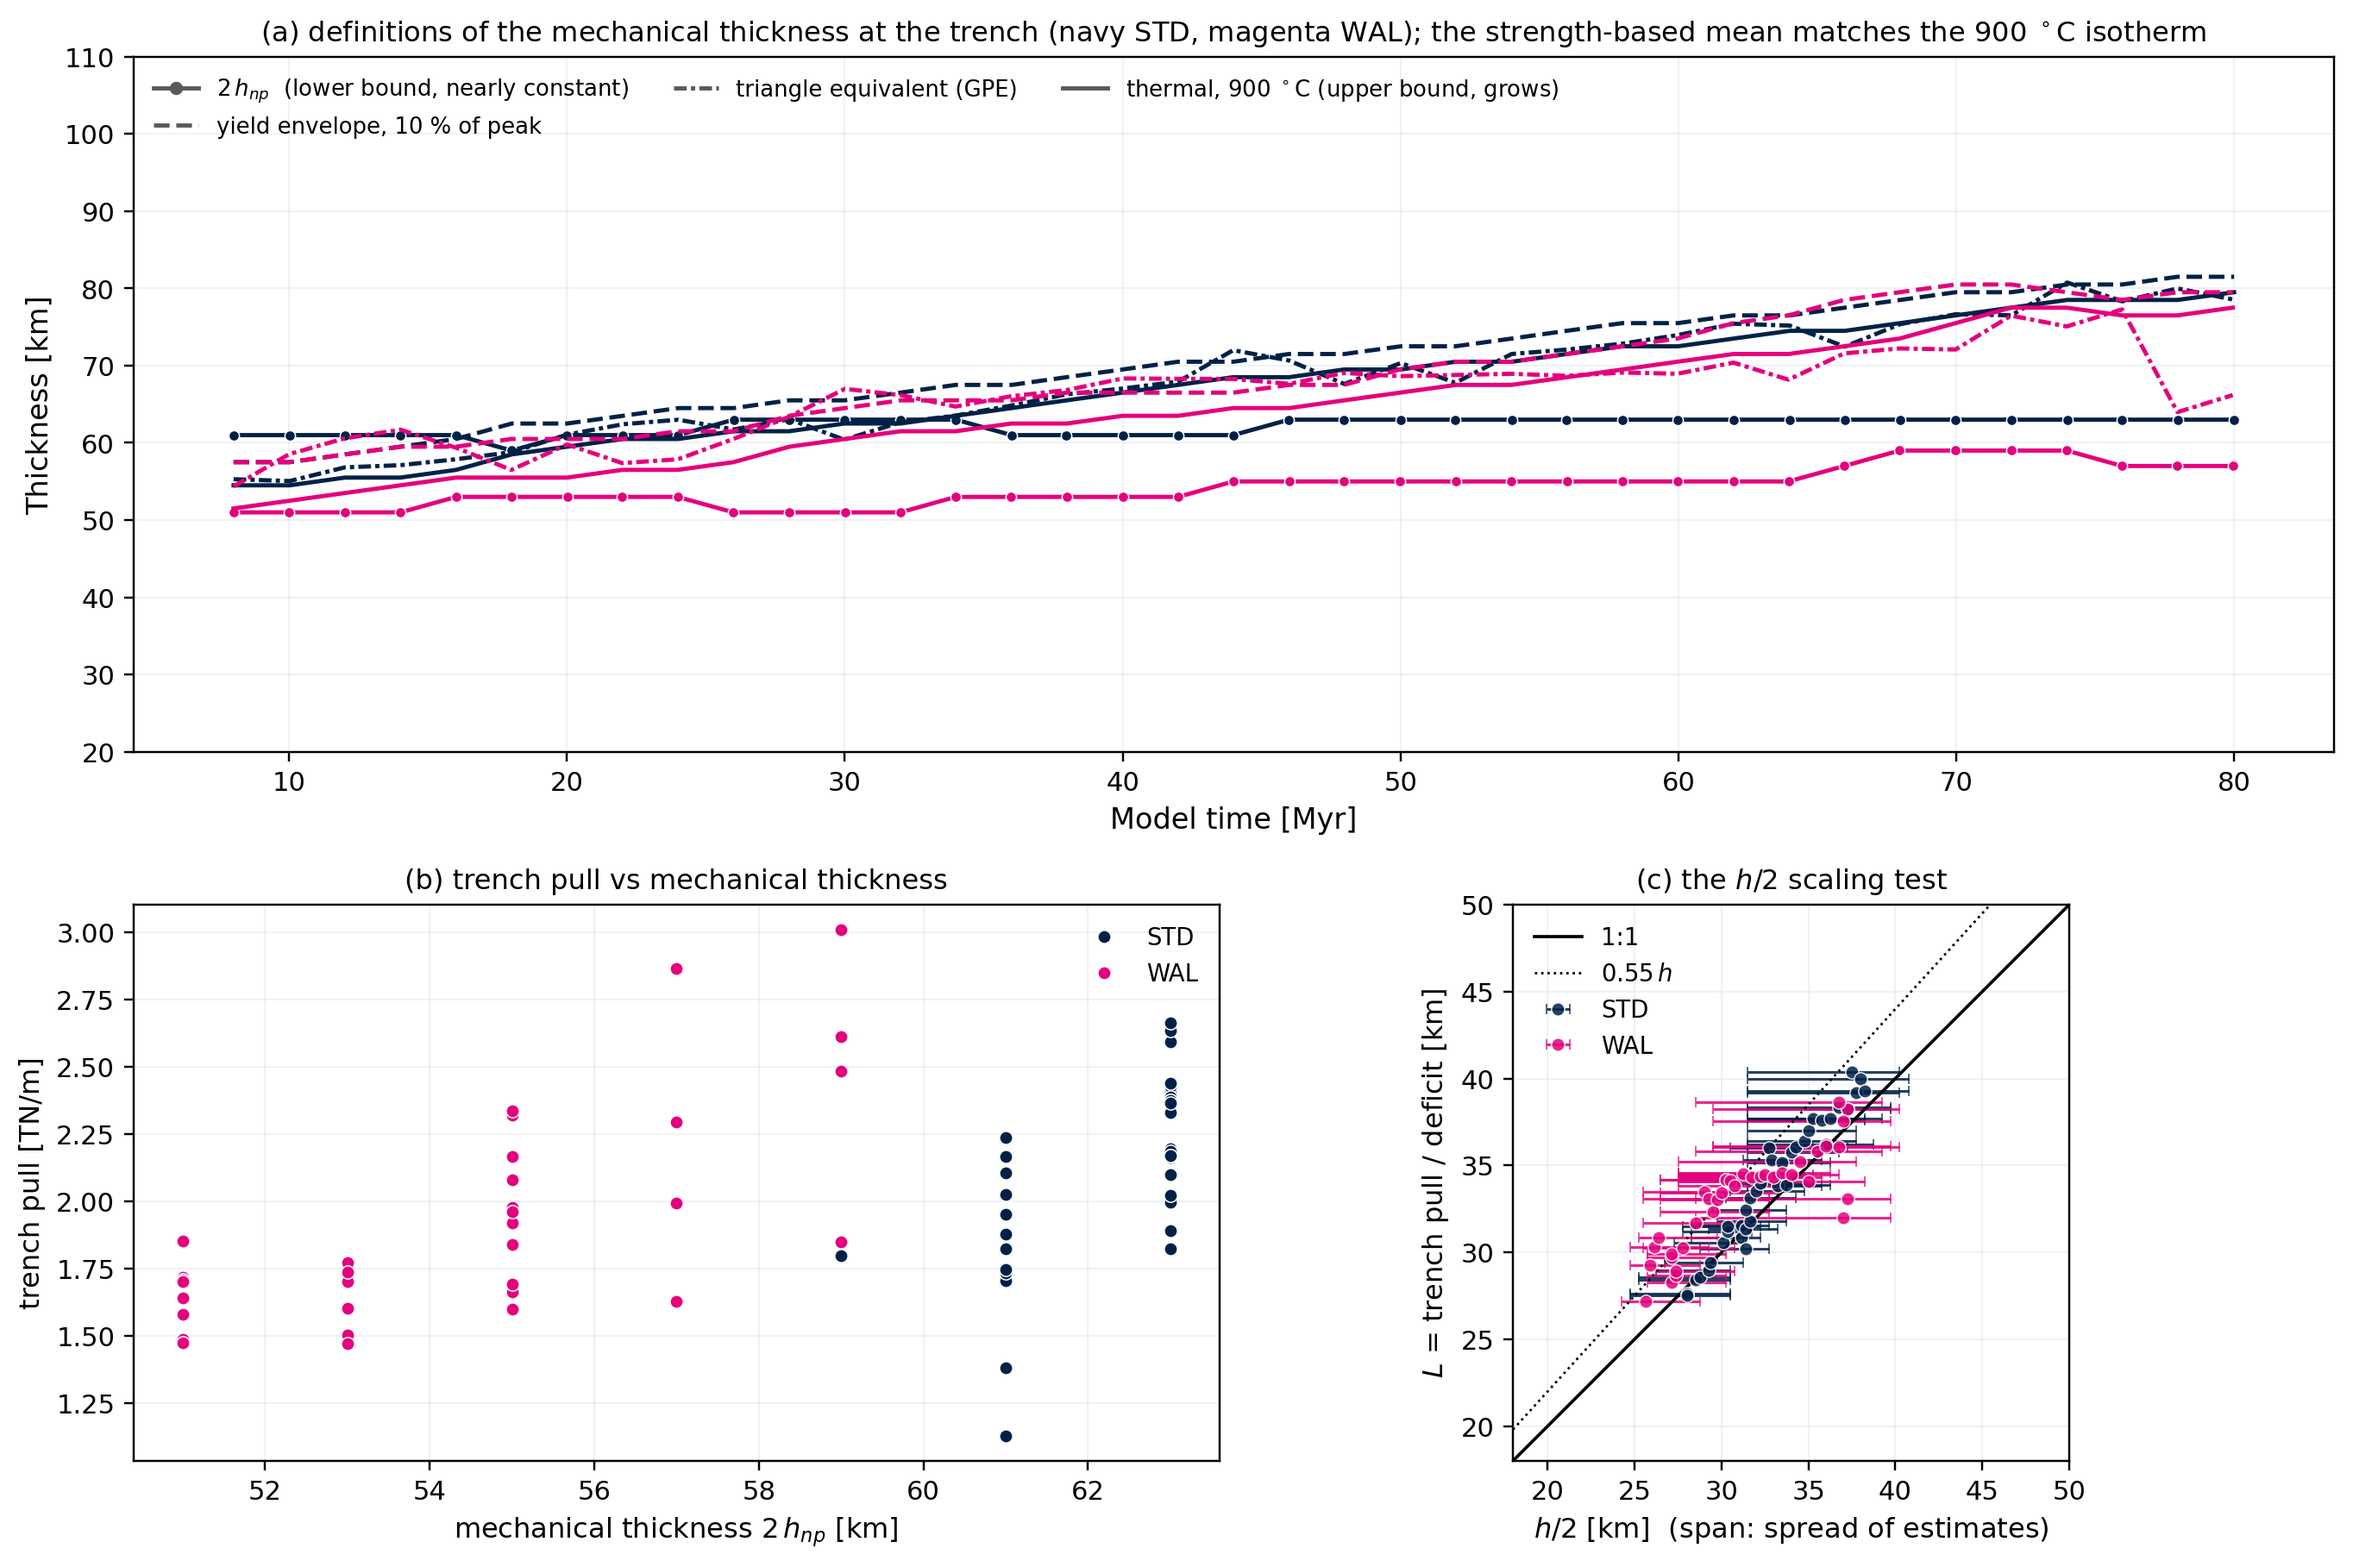
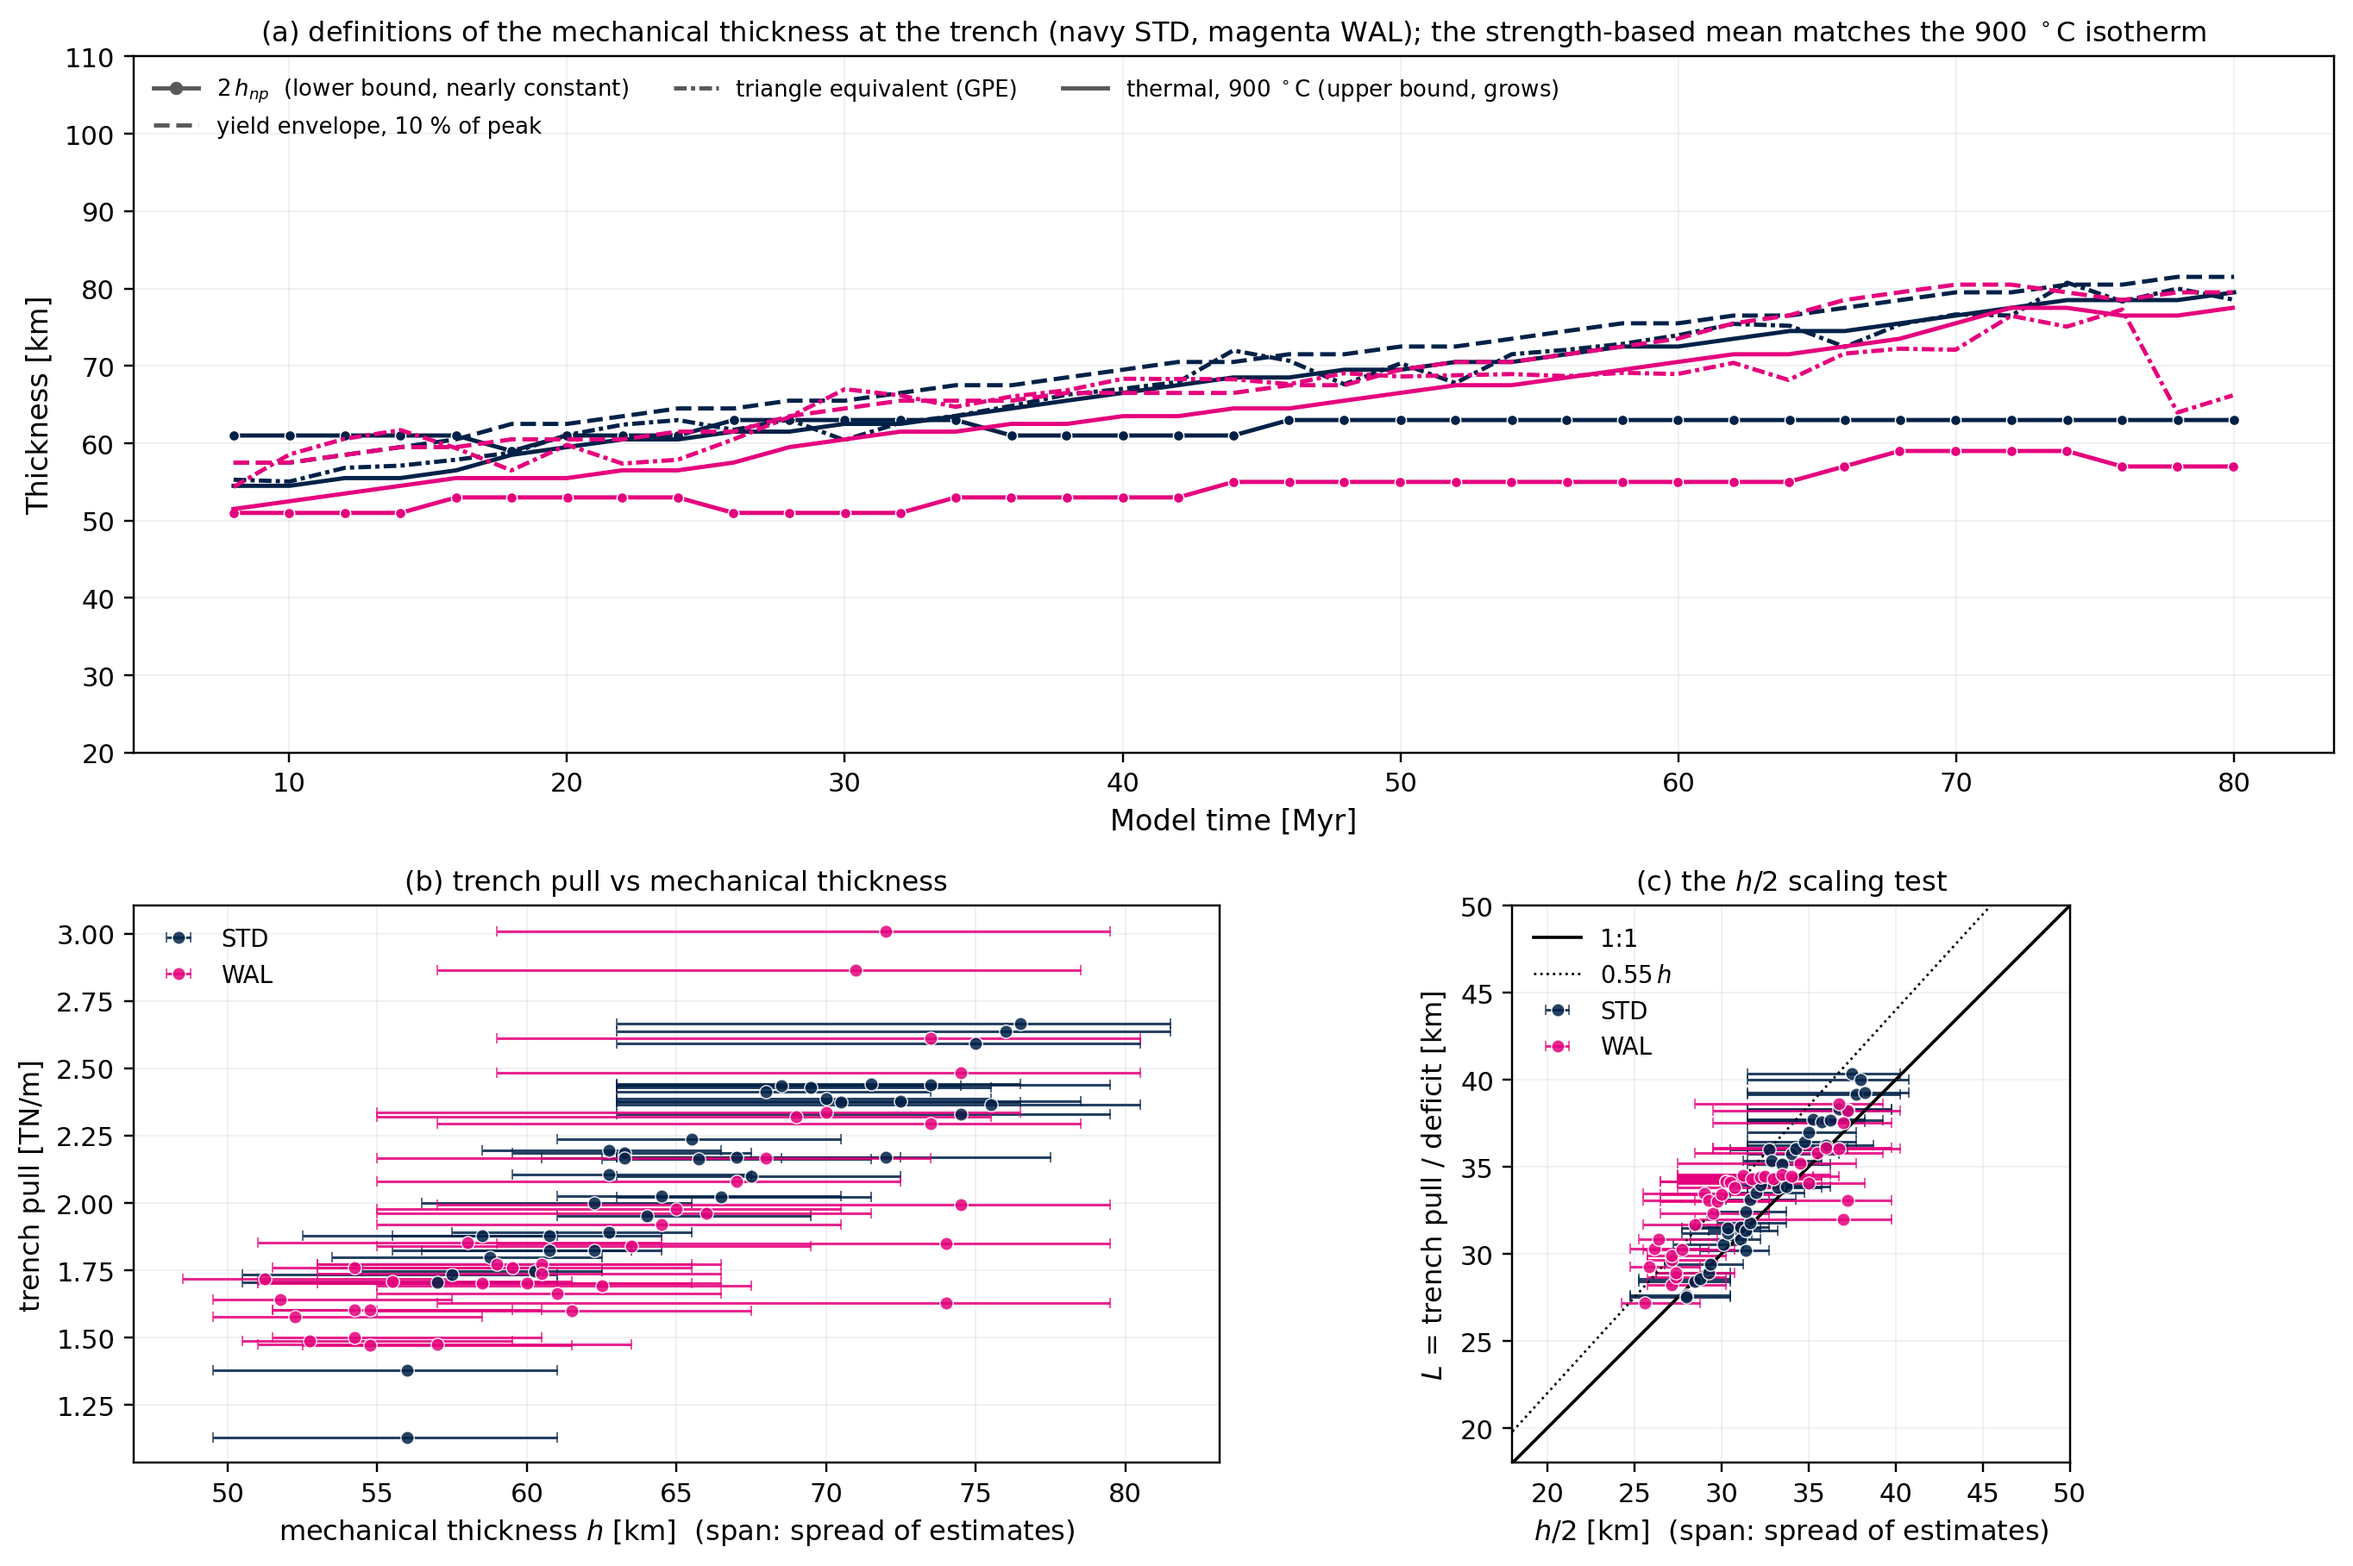
same thickness span in both panels; new trench stress-profile figure
- fig_mechanical_thickness panel (b) now carries the SAME estimate span
  as panel (c) (Dan: the ambiguity should be presented in both). The old
  version used 2 h_np alone, which is quantised on the 2 km grid and
  produced discrete columns rather than a trend.
- NEW fig_trench_stress_profiles: at the trench column, mid-run average
  (36-44 Myr), the flexural fibre stress sigma_xx - sigma_zz beside the
  Delta sigma_zz pressure deficit, with the span of the four independent
  thickness estimates shaded and the neutral plane marked. h_np 30 (STD)
  / 27 (WAL) km; estimate spans 61-69 / 54-66 km; outer-fibre peaks
  +235/-199 and +204/-203 MPa; deficit peaks -62 / -51 MPa. Both the
  flexural envelope and the pressure deficit decay away within the same
  depth range -- the two panels have to be made sense of by one
  thickness, and they are.

diff --git a/scripts/fig_trench_stress_profiles.py b/scripts/fig_trench_stress_profiles.py
@@ -1,0 +1,95 @@
+"""fig_trench_stress_profiles — the two stress profiles at the trench,
+with the mechanical-thickness estimates marked.
+
+Writes figures/fig_trench_stress_profiles.png from the committed
+column-profile cache. Drawn at the reference epoch, averaged over the
+mid-run window (36-44 Myr, conventions §4b) rather than a single
+snapshot: the profiles are noisy at the trench and the average is the
+stable representation.
+
+Two panels, side by side, both at the trench column (where the bending
+moment is largest):
+  left   the NORMAL-STRESS DIFFERENCE profile, sigma_xx - sigma_zz — the
+         flexural fibre stress. Its zero crossing is the neutral plane;
+         the outer-fibre peaks bound the strong part of the plate.
+  right  the DELTA SIGMA_ZZ profile, trench minus first isostatic column
+         (pressure register) — the topographic pressure deficit whose
+         integral is the trench pull.
+
+Overlaid on both, per model: the span of the four independent mechanical
+thickness estimates (2 h_np, yield-10 %, yield-50 MPa, thermal 900 C) as
+a shaded band, with the neutral plane h_np marked separately. Reading the
+two panels together is the point — the same thickness has to make sense
+of the flexural envelope on the left and of the pressure deficit on the
+right, and it does: the deficit dies where the envelope does.
+
+DRAFT CAPTION. Stress profiles at the trench column, averaged over the
+mid-run window, for STD (navy) and WAL (magenta). Left: the
+normal-stress difference (flexural fibre stress); the neutral plane
+(dotted) is its zero crossing. Right: the vertical normal stress
+difference between the trench and the first isostatic column, whose
+integral is the trench pull. Shaded bands span the four independent
+estimates of the mechanical thickness; both the flexural envelope and the
+pressure deficit decay away within the same depth range.
+"""
+import os, sys
+import numpy as np
+import matplotlib
+matplotlib.use('Agg')
+import matplotlib.pyplot as plt
+from scipy.ndimage import gaussian_filter1d
+
+sys.path.insert(0, os.path.dirname(os.path.abspath(__file__)))
+import column_profiles_cache as cpc
+from fig_mechanical_thickness import thicknesses
+
+ROOT = os.path.dirname(os.path.dirname(os.path.abspath(__file__)))
+C = {'STD': '#002147', 'WAL': '#E5007D'}
+C_RULE = '#BFC3D1'
+
+def main():
+    d = cpc.load()
+    fig, axes = plt.subplots(1, 2, figsize=(10.5, 6.4), sharey=True)
+    for key in ('STD', 'WAL'):
+        col = C[key]
+        c = cpc.derive(d, key)
+        r = thicknesses(d, key)
+        m = c['mid']
+        z, zkm = c['z'], c['z'] / 1e3
+        sm = lambda a: gaussian_filter1d(a, 2)
+        fib = sm((d[f'{key}_sxx_T'] - d[f'{key}_szz_T'])[m].mean(axis=0)) / 1e6
+        dzz = sm(c['p_T'][m].mean(axis=0)) / 1e6           # pressure register
+        axes[0].plot(fib, zkm, color=col, lw=2.0, label=key)
+        axes[1].plot(dzz, zkm, color=col, lw=2.0, label=key)
+        ests = np.array([r[k][m].mean() for k in ('np2', 'yield10', 'yield50',
+                                                  'thermal')]) / 1e3
+        h_np = r['np2'][m].mean() / 2e3
+        for ax in axes:
+            ax.axhspan(ests.min(), ests.max(), color=col, alpha=0.10, lw=0)
+            ax.axhline(np.median(ests), color=col, lw=1.0, ls='--')
+        axes[0].axhline(h_np, color=col, lw=1.0, ls=':')
+        axes[0].text(0.97, h_np - 1.5, f'$h_{{np}}$ {h_np:.0f} km', color=col,
+                     fontsize=8, ha='right', transform=axes[0].get_yaxis_transform())
+        print(f'{key}: h_np {h_np:.0f} km; estimates {ests.min():.0f}-{ests.max():.0f} km '
+              f'(median {np.median(ests):.0f}); fibre peaks '
+              f'{fib[zkm < h_np].max():+.0f} / {fib[(zkm > h_np) & (zkm < 120)].min():+.0f} MPa; '
+              f'deficit peak {dzz.min():+.0f} MPa')
+    axes[0].set_xlabel(r'$\sigma_{xx}-\sigma_{zz}$ at the trench [MPa]', fontsize=11)
+    axes[1].set_xlabel(r'$\Delta\sigma_{zz}$, trench $-\,x_I$ [MPa]'
+                       '\n(pressure register)', fontsize=11)
+    axes[0].set_ylabel('Depth [km]', fontsize=11)
+    axes[0].set_ylim(120, 0)
+    for ax in axes:
+        ax.axvline(0, color='k', lw=1.6)
+        ax.grid(alpha=0.25, color=C_RULE, lw=0.6)
+        ax.legend(frameon=False, fontsize=10, loc='lower right')
+    fig.suptitle('At the trench, mid-run average: the flexural envelope and the '
+                 'pressure deficit,\nwith the span of mechanical-thickness estimates '
+                 '(shaded) and the neutral plane (dotted)', fontsize=10.5)
+    fig.tight_layout()
+    out = os.path.join(ROOT, 'figures', 'fig_trench_stress_profiles.png')
+    fig.savefig(out, bbox_inches='tight', dpi=220)
+    print('written:', out)
+
+if __name__ == '__main__':
+    main()

diff --git a/scripts/fig_mechanical_thickness.py b/scripts/fig_mechanical_thickness.py
@@ -141,8 +141,7 @@ def main():
             rows += [(key, f'h_{name}_median_km', f'{np.nanmedian(r[name])/1e3:.1f}'),
                      (key, f'h_{name}_q1_km', f'{np.nanpercentile(r[name], 25)/1e3:.1f}'),
                      (key, f'h_{name}_q3_km', f'{np.nanpercentile(r[name], 75)/1e3:.1f}')]
-        ax_p.plot(r['np2'] / 1e3, r['trench_pull'] / 1e12, 'o', color=col, ms=5,
-                  markeredgecolor='white', markeredgewidth=0.5, label=key)
+
         # (c) THE h/2 SCALING TEST, one point per snapshot (Dan, 2026-09-16):
         #   y  L = trench pull / surface pressure deficit — a single value
         #   x  h/2, with a horizontal SPAN covering the spread of the
@@ -154,6 +153,12 @@ def main():
         ests = np.vstack([r['np2'], r['yield10'], r['yield50'], r['thermal']]) / 2e3
         lo, hi = np.nanmin(ests, axis=0), np.nanmax(ests, axis=0)
         mid = np.nanmedian(ests, axis=0)
+        # (b) trench pull against thickness, SAME span as (c) — the
+        # thickness ambiguity is shown in both panels (Dan, 2026-09-16)
+        ax_p.errorbar(2 * mid, r['trench_pull'] / 1e12,
+                      xerr=[2 * (mid - lo), 2 * (hi - mid)], fmt='o', color=col,
+                      ms=5, lw=0, elinewidth=1.0, capsize=2, alpha=0.85,
+                      markeredgecolor='white', markeredgewidth=0.5, label=key)
         ax_a.errorbar(mid, L / 1e3, xerr=[mid - lo, hi - mid], fmt='o', color=col,
                       ms=5, lw=0, elinewidth=1.0, capsize=2, alpha=0.85,
                       markeredgecolor='white', markeredgewidth=0.5, label=key)
@@ -199,7 +204,8 @@ def main():
         else:
             ax_t.plot([], [], color='0.35', lw=1.6, ls=ls, label=lab)
     ax_t.legend(frameon=False, fontsize=8.5, ncol=3, loc='upper left')
-    ax_p.set_xlabel(r'mechanical thickness $2\,h_{np}$ [km]', fontsize=10.5)
+    ax_p.set_xlabel('mechanical thickness $h$ [km]  (span: spread of estimates)',
+                    fontsize=10.5)
     ax_p.set_ylabel('trench pull [TN/m]', fontsize=10.5)
     ax_p.set_title('(b) trench pull vs mechanical thickness', fontsize=10.5)
     lim = np.array([18, 50])
